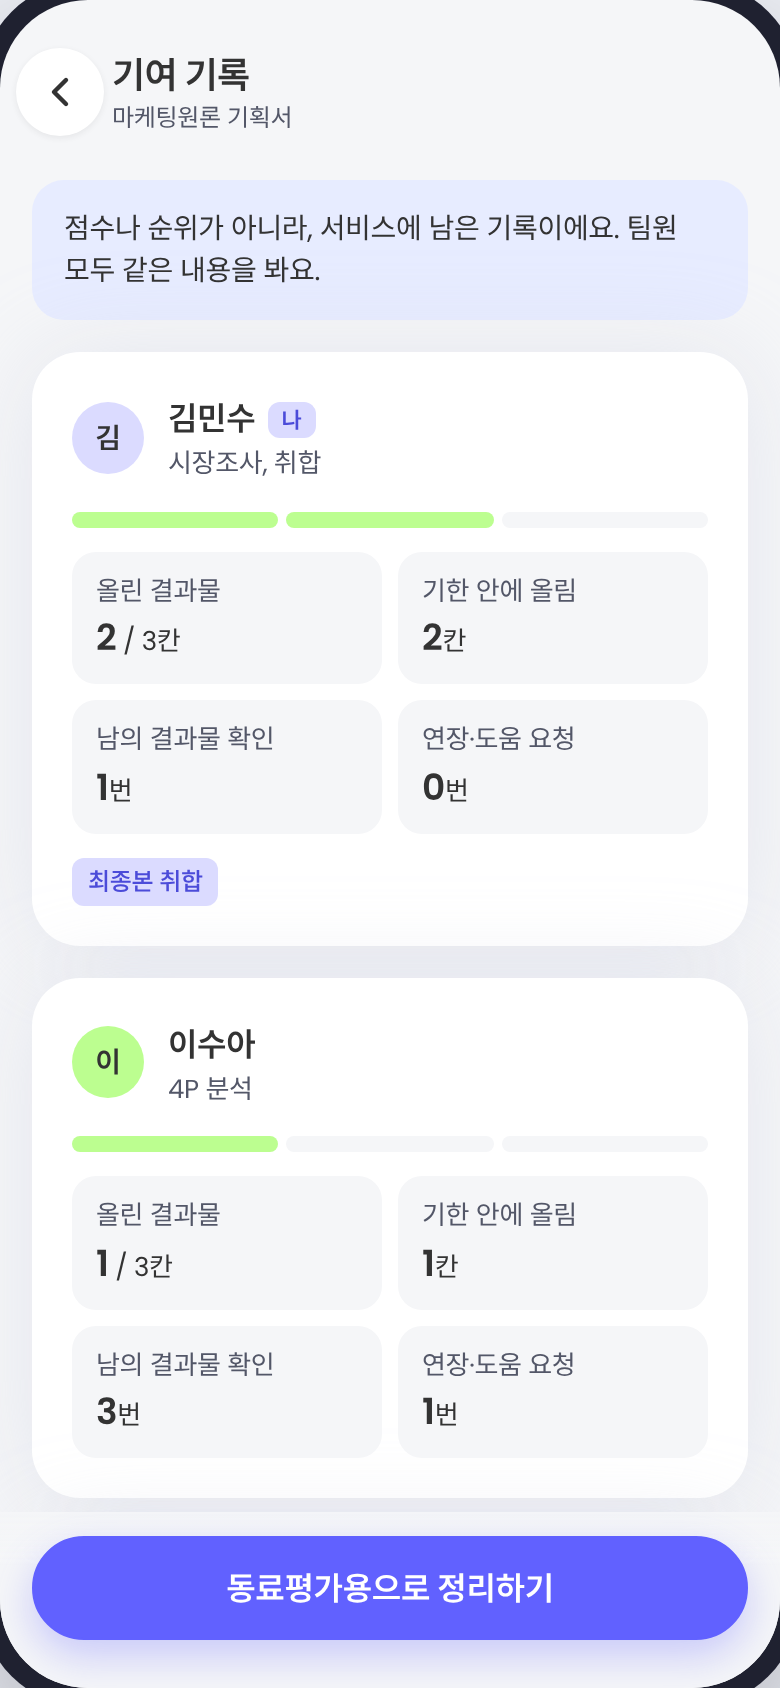
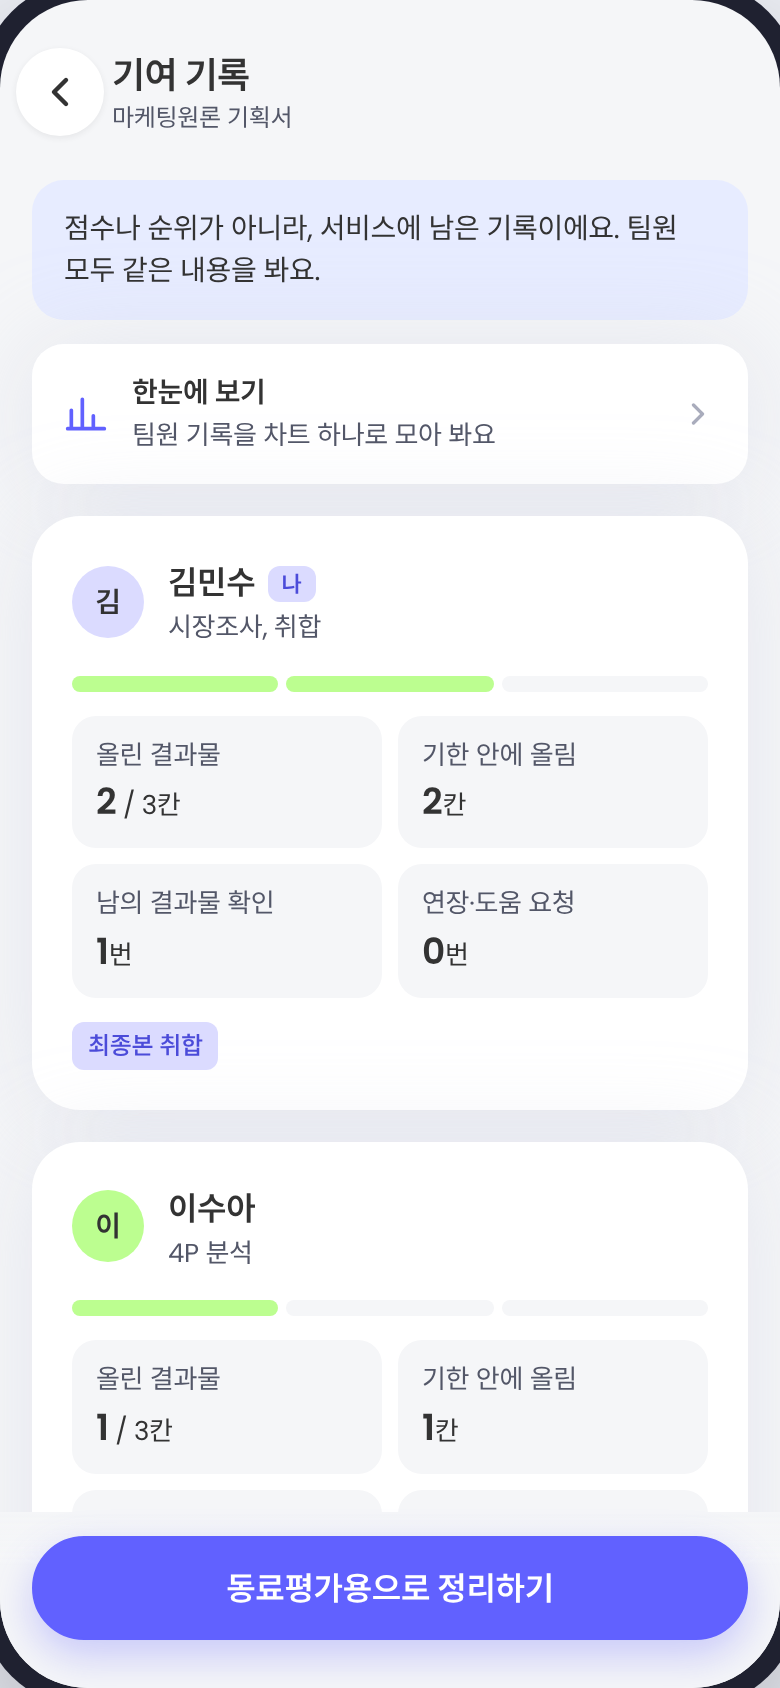
Add contribution chart view with table toggle
Claude-Session: https://claude.ai/code/session_01D1tN5axZqsQHREzphrN6yM

diff --git a/prototype/index.html b/prototype/index.html
@@ -299,7 +299,7 @@ var SCEN = [
   {id:'E', me:'이수아', title:'오류: 잘린 링크와 너무 큰 파일', why:'빈 화면에서 멈추지 않게', start:['errlink'],
     steps:[['errlink','‘내 팀 목록으로’'],['home','‘마케팅원론 기획서’에서 ‘내 결과물 올리기’'],['upload','파일 선택(큰 파일) 후 올리기'],['errupload','‘링크로 올리기’ 후 다시 올리기']]},
   {id:'F', me:'김민수', title:'팀장 김민수, 제출 전에 최종본 확인과 기여 기록을 본다', why:'“누가 언제 뭘 했는지 기록이 자동으로 남았으면” (P4-60a)', start:['home'],
-    steps:[['home','‘마케팅원론 기획서’를 누르세요'],['team','아래 ‘결과물 모아보기’를 누르세요'],['files','최종본 확인 현황을 보고 ‘기여 기록 보기’'],['contrib','팀원별 기록을 보고 ‘동료평가용으로 정리하기’']]}
+    steps:[['home','‘마케팅원론 기획서’를 누르세요'],['team','아래 ‘결과물 모아보기’를 누르세요'],['files','최종본 확인 현황을 보고 ‘기여 기록 보기’'],['contrib','‘한눈에 보기’로 차트를 열어 보세요'],['cchart','막대를 눌러 값을 보고 ‘동료평가용으로 정리하기’']]}
 ];
 
 /* ───────── 상태 ───────── */
@@ -654,6 +654,7 @@ V.contrib = function(p){
   var t = team(p.team);
   var h = top('기여 기록', esc(t.name));
   h += '<div class="scroll"><div class="ribbon" style="background:var(--periwinkle);box-shadow:none"><span class="grow">점수나 순위가 아니라, 서비스에 남은 기록이에요. 팀원 모두 같은 내용을 봐요.</span></div>';
+  h += '<button class="ribbon" data-a="cchart" data-team="' + t.id + '"><svg width="22" height="22" viewBox="0 0 24 24" fill="none" stroke="var(--violet)" stroke-width="2" stroke-linecap="round" aria-hidden="true"><path d="M4 20V10M10 20V4M16 20v-7M22 20H2"/></svg><span class="grow"><b>한눈에 보기</b><br><span class="hint" style="margin:0">팀원 기록을 차트 하나로 모아 봐요</span></span>' + IC.chev + '</button>';
   t.members.forEach(function(mm, mi){
     var st = teamStats(t, mm, mi), n = mm.cells.length;
     var strip = mm.cells.map(function(c, i){ var late = isLate(t,mm,i) && c.s!=='done';
@@ -674,6 +675,51 @@ V.contrib = function(p){
     h += '</div></div>';
   });
   h += '<p class="hint" style="padding:16px 24px 0">기록은 결과물 올리기, 확인했어요, 연장·도움 요청, 최종본 취합에서 자동으로 쌓여요. 따로 적을 필요가 없어요.</p></div>';
+  h += '<div class="bar"><button class="btn primary grow" data-a="contribexport" data-team="' + t.id + '">동료평가용으로 정리하기</button></div>';
+  return h;
+};
+
+var CSERIES = [
+  {k:'up', name:'올린 결과물', unit:'칸', col:'#6161FF'},
+  {k:'onTime', name:'기한 안에 올림', unit:'칸', col:'#1A9E8F'},
+  {k:'given', name:'남의 결과물 확인', unit:'번', col:'#E07B2E'},
+  {k:'req', name:'연장·도움 요청', unit:'번', col:'#D6457A'}
+];
+V.cchart = function(p){
+  var t = team(p.team), view = p.view || 'chart';
+  var rows = t.members.map(function(mm, mi){ var st = teamStats(t, mm, mi); st.req = st.ext + st.help; return {name:mm.name, me:mm.name===S.me, st:st}; });
+  var max = 1; rows.forEach(function(r){ CSERIES.forEach(function(se){ max = Math.max(max, r.st[se.k]); }); });
+  var h = top('기여 기록 한눈에 보기', esc(t.name));
+  h += '<div class="seg" role="tablist"><button role="tab" data-a="cview" data-v="chart" aria-selected="' + (view==='chart') + '">차트</button><button role="tab" data-a="cview" data-v="table" aria-selected="' + (view==='table') + '">표</button></div>';
+  h += '<div class="scroll"><div class="sheet" style="position:relative"><div class="pad">';
+  h += '<div style="font-weight:600;font-size:16px">팀원별 기록</div><p class="hint" style="margin:2px 0 12px">팀 등록 순서예요. 순위가 아니에요.</p>';
+  h += '<div style="display:flex;flex-wrap:wrap;gap:6px 14px;margin-bottom:12px">' + CSERIES.map(function(se){ return '<span style="display:inline-flex;align-items:center;gap:6px;font-size:12px;color:var(--slate)"><i style="width:10px;height:10px;border-radius:3px;background:' + se.col + '"></i>' + se.name + '</span>'; }).join('') + '</div>';
+  if (view === 'chart'){
+    var W = 318, LW = 58, VW = 22, PW = W - LW - VW, BH = 8, GAP = 2, GRP = CSERIES.length * (BH + GAP) - GAP, ROWG = 22, H = rows.length * (GRP + ROWG) + 22;
+    var x = function(v){ return LW + v / max * PW; };
+    var svg = '<svg viewBox="0 0 ' + W + ' ' + H + '" width="100%" role="img" aria-label="팀원별 기여 기록 막대 차트. 자세한 값은 표 탭에 있어요.">';
+    for (var g = 0; g <= max; g++){ var gx = x(g); svg += '<line x1="' + gx + '" x2="' + gx + '" y1="0" y2="' + (H - 18) + '" stroke="#EEF0F5" stroke-width="1"/><text x="' + gx + '" y="' + (H - 4) + '" font-size="10" fill="#535768" text-anchor="middle">' + g + '</text>'; }
+    rows.forEach(function(r, ri){
+      var y0 = ri * (GRP + ROWG) + 6;
+      svg += '<text x="0" y="' + (y0 + GRP / 2 + 4) + '" font-size="12" font-weight="' + (r.me ? 600 : 500) + '" fill="#333333">' + esc(r.name) + '</text>';
+      CSERIES.forEach(function(se, si){
+        var v = r.st[se.k], y = y0 + si * (BH + GAP), w = Math.max(v / max * PW, v ? 4 : 0);
+        var tip = esc(r.name) + ', ' + se.name + ' ' + v + se.unit;
+        svg += '<g tabindex="0" data-tip="' + tip + '" aria-label="' + tip + '">';
+        svg += '<rect x="' + LW + '" y="' + (y - 2) + '" width="' + PW + '" height="' + (BH + 4) + '" fill="transparent"/>';
+        if (v) svg += '<rect x="' + LW + '" y="' + y + '" width="' + w + '" height="' + BH + '" rx="4" fill="' + se.col + '"/>';
+        else svg += '<rect x="' + LW + '" y="' + (y + BH / 2 - 1) + '" width="3" height="2" fill="#B8BCCB"/>';
+        svg += '<text x="' + (LW + w + 5) + '" y="' + (y + BH - 0.5) + '" font-size="10" fill="#535768">' + v + '</text></g>';
+      });
+    });
+    svg += '</svg>';
+    h += '<div style="position:relative" id="cc-wrap">' + svg + '<div id="cc-tip" role="status" style="position:absolute;pointer-events:none;background:#1F2130;color:#fff;font-size:12px;line-height:1.4;padding:6px 10px;border-radius:8px;white-space:nowrap;opacity:0"></div></div>';
+  } else {
+    h += '<div style="overflow-x:auto"><table style="width:100%;border-collapse:collapse;font-size:13px"><thead><tr><th style="text-align:left;padding:8px 4px;border-bottom:1px solid var(--mist);font-weight:600">팀원</th>' + CSERIES.map(function(se){ return '<th style="text-align:right;padding:8px 4px;border-bottom:1px solid var(--mist);font-weight:600">' + se.name + '</th>'; }).join('') + '</tr></thead><tbody>';
+    rows.forEach(function(r){ h += '<tr><td style="padding:10px 4px;border-bottom:1px solid #EEF0F5">' + esc(r.name) + (r.me ? '<span class="me">나</span>' : '') + '</td>' + CSERIES.map(function(se){ return '<td style="text-align:right;padding:10px 4px;border-bottom:1px solid #EEF0F5">' + r.st[se.k] + se.unit + '</td>'; }).join('') + '</tr>'; });
+    h += '</tbody></table></div>';
+  }
+  h += '</div></div><p class="hint" style="padding:16px 24px 0">막대에 손가락을 대면 값이 보여요. 기록은 결과물 올리기, 확인했어요, 연장·도움 요청에서 자동으로 쌓여요.</p></div>';
   h += '<div class="bar"><button class="btn primary grow" data-a="contribexport" data-team="' + t.id + '">동료평가용으로 정리하기</button></div>';
   return h;
 };
@@ -780,6 +826,8 @@ document.addEventListener('click', function(e){
     case 'editstages': go('stages', {team:d.team, edit:true}); break;
     case 'files': go('files', {team:d.team}); break;
     case 'contrib': go('contrib', {team:d.team}); break;
+    case 'cchart': go('cchart', {team:d.team, view:'chart'}); break;
+    case 'cview': S.cur.p.view = d.v; render(); break;
     case 'fpreview': go('fpreview', {team:d.team}); break;
     case 'finalcheck': { var tf = team(d.team); if (tf.final.checks.indexOf(S.me) < 0) tf.final.checks.push(S.me); render(); toast(tf.final.by + '님에게 최종본 확인이 보여요'); break; }
     case 'contribexport': toast('팀원별 기록을 표로 정리했어요. 시연이라 파일은 만들지 않아요.'); if (S.scen && S.scen.id==='F') { finish(); renderGuide(); } break;
@@ -854,6 +902,17 @@ document.addEventListener('click', function(e){
       break; }
   }
 });
+function ccTip(e){
+  var g = e.target.closest && e.target.closest('[data-tip]'), tip = document.getElementById('cc-tip'); if (!tip) return;
+  if (!g){ tip.style.opacity = 0; return; }
+  var wrap = document.getElementById('cc-wrap').getBoundingClientRect(), r = g.getBoundingClientRect();
+  tip.textContent = g.getAttribute('data-tip'); tip.style.opacity = 1;
+  var left = Math.min(Math.max(r.left - wrap.left + 40, 0), wrap.width - tip.offsetWidth);
+  tip.style.left = left + 'px'; tip.style.top = (r.top - wrap.top - 30) + 'px';
+}
+document.addEventListener('mouseover', ccTip);
+document.addEventListener('focusin', ccTip);
+document.addEventListener('touchstart', ccTip, {passive:true});
 document.addEventListener('change', function(e){
   if (e.target.matches('[data-a="sdate"]') && S.cur.name==='stages') collectStages(team(S.cur.p.team));
 });
@@ -880,7 +939,7 @@ go = function(name, p, opt){
              C:{extend:'extend'},
              D:{team:'team', alerts:'alerts', detail:'detail'},
              E:{home:'home', upload:'upload'},
-             F:{team:'team', files:'files', contrib:'contrib'}}[sc.id] || {};
+             F:{team:'team', files:'files', contrib:'contrib', cchart:'cchart'}}[sc.id] || {};
   if (map[name]) advance(map[name]);
   if (sc.id==='C' && name==='alerts' && S.step >= 2) advance('alerts2'), finish();
   if (sc.id==='A' && name==='team' && team(p.team) && team(p.team).isNew) {}

diff --git a/docs/기획서_v2.md b/docs/기획서_v2.md
@@ -404,3 +404,4 @@
 - 입구: 06 팀 보드 아래 "결과물 모아보기", "기여 기록" 버튼
 - 프로토타입 시나리오 F(팀장 김민수, 제출 전 확인) 추가
 - 화면 캡처: `docs/hifi/Files.png`, `FilesMine.png`, `Contrib.png`, `Contrib2.png`
+- 15-b 기여 기록 한눈에 보기: 팀원별 4가지 기록(올린 결과물, 기한 안에 올림, 남의 결과물 확인, 연장·도움 요청)을 한 차트에 묶은 가로 막대. 눈금 하나, 팀 등록 순서(순위 아님), 막대를 누르면 값, 같은 내용을 표 탭으로도 제공. 색 4개는 색약 구분 검사를 통과(주황 막대 대비가 낮아 값 라벨과 표로 보완)
